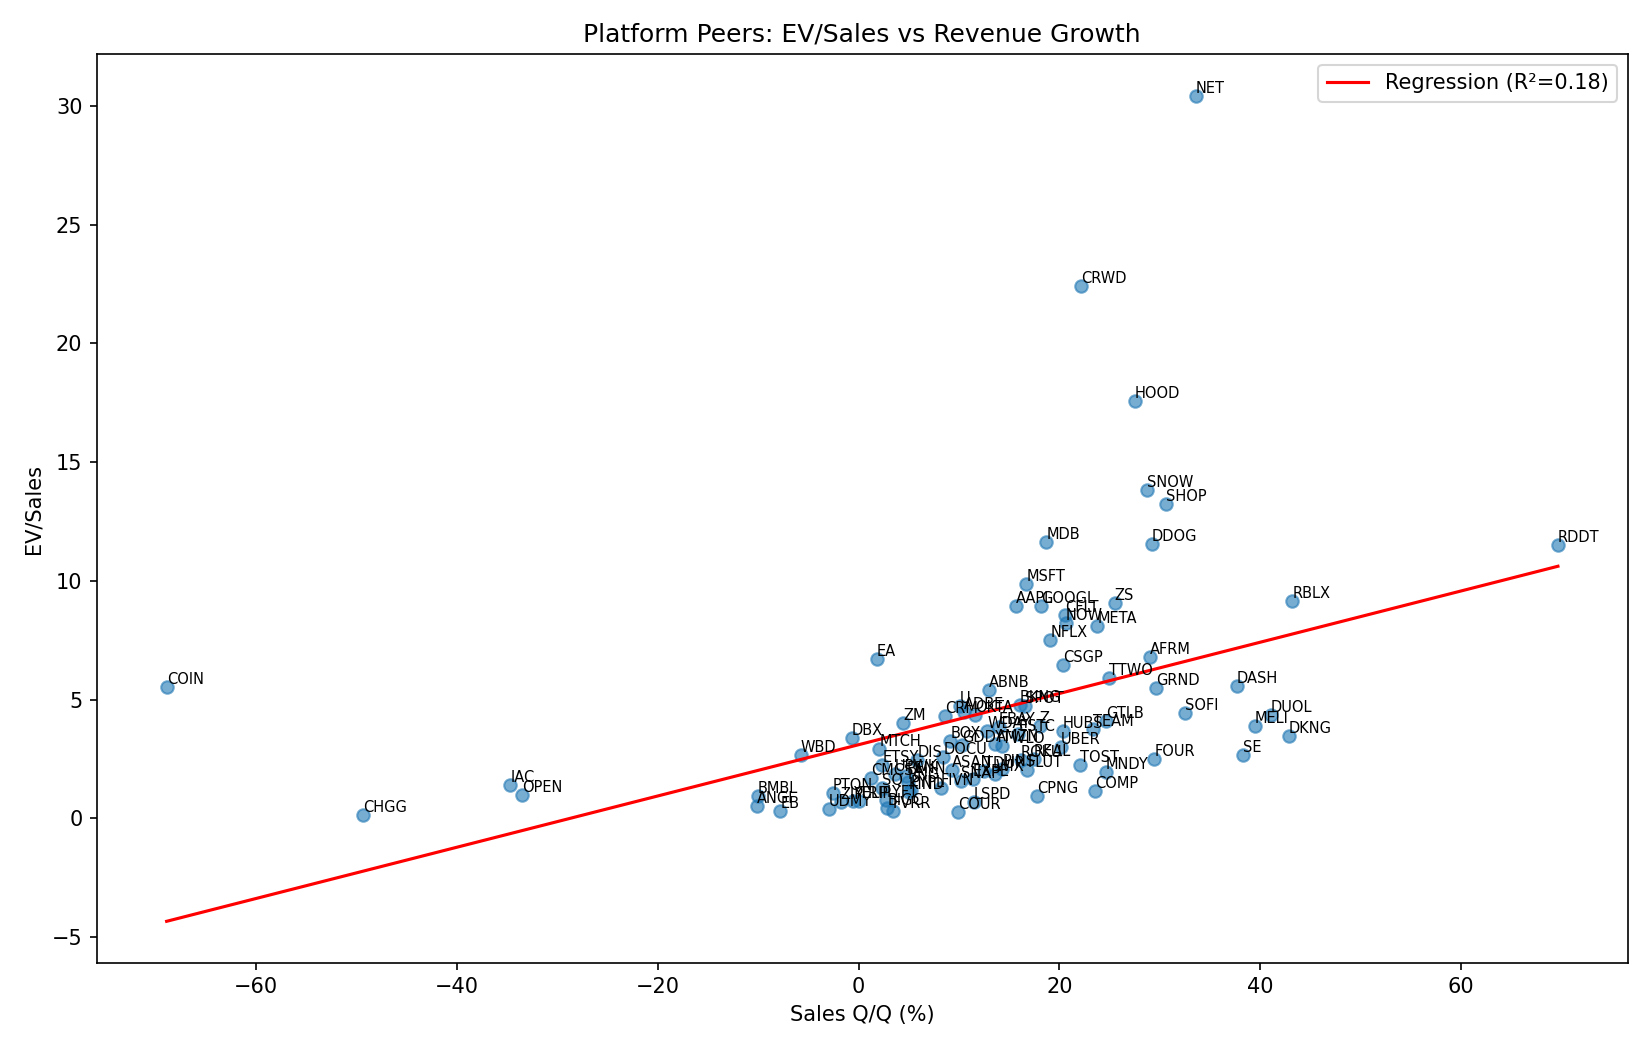
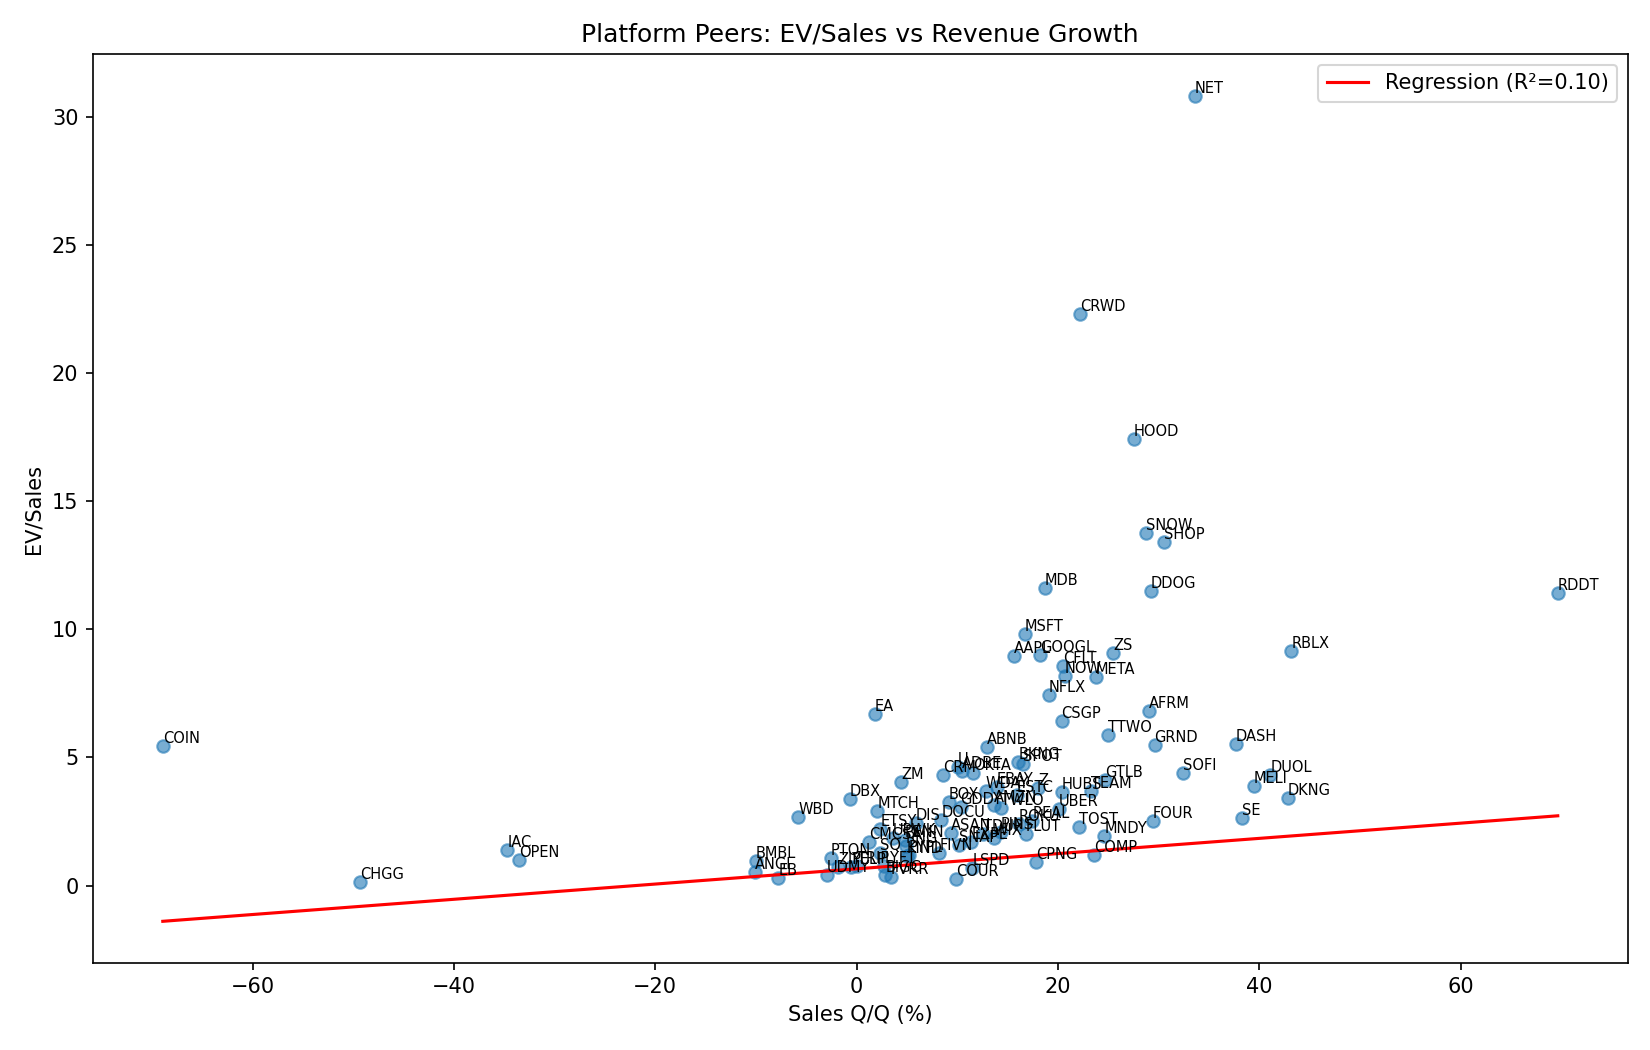
log transformation

diff --git a/SPOT research study.py b/SPOT research study.py
@@ -64,14 +64,15 @@ for t in TICKERS:
     })
 
 df = pd.DataFrame(rows).dropna(subset=["ev_sales", "sales_qoq", "oper_margin"])
+df["log_ev_sales"] = np.log(df["ev_sales"]) # log transform so that EV/sales are positive   
 print(f"Tickers scraped: {len(df)}")
 
 # OLS regression: EV/Sales ~ sales_qoq + oper_margin
 X = np.column_stack([np.ones(len(df)), df["sales_qoq"], df["oper_margin"]])
-y = df["ev_sales"].values
+y = df["log_ev_sales"].values
 coeffs, _, _, _ = np.linalg.lstsq(X, y, rcond=None)
 
-df["predicted"] = X @ coeffs
+df["predicted"] = np.exp(X @ coeffs)
 df["residual"] = df["ev_sales"] - df["predicted"]
 r2 = 1 - ((df["ev_sales"] - df["predicted"]) ** 2).sum() / ((df["ev_sales"] - df["ev_sales"].mean()) ** 2).sum()
 
